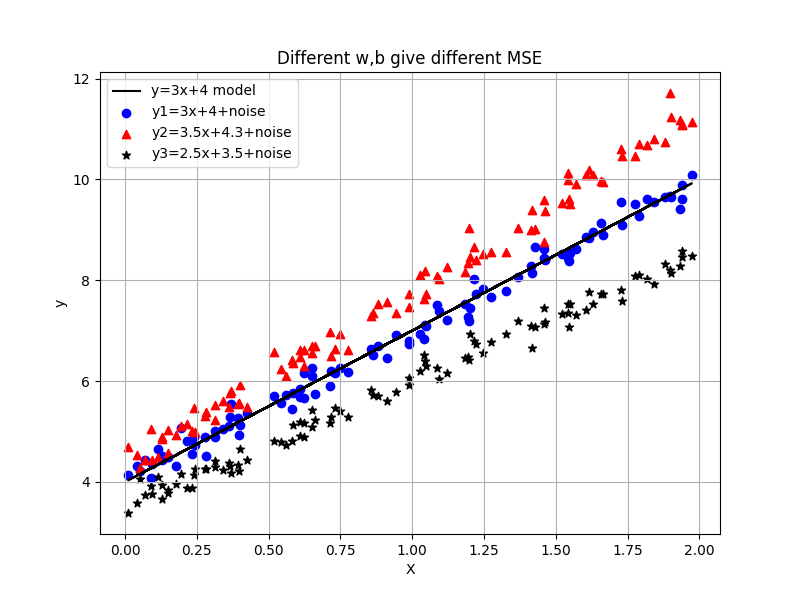
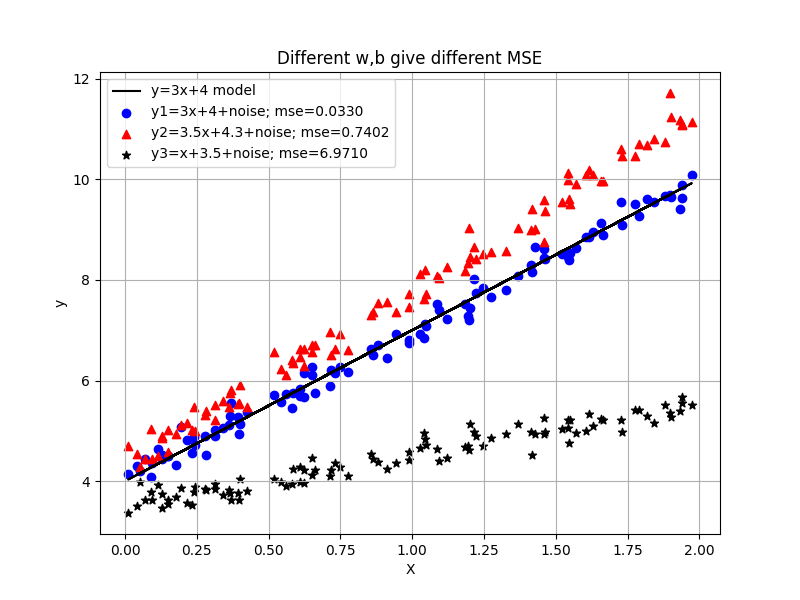
better understand iterations and dw,db adjustment

diff --git a/src/mse_iterations.py b/src/mse_iterations.py
@@ -1,0 +1,63 @@
+import numpy as np
+
+# Generate some random data
+np.random.seed(42)
+X = 2 * np.random.rand(100, 1)
+y = 4 + 3 * X + np.random.randn(100, 1)
+
+# Define the learning rate and number of iterations
+learning_rate = 0.15
+iterations = 100
+
+# Initialize weights and biases
+w1, b1 = np.random.randn(), np.random.randn()
+w2, b2 = np.random.randn(), np.random.randn()
+w3, b3 = np.random.randn(), np.random.randn()
+
+# Store the MSE values for each iteration
+mse_y1_values, mse_y2_values, mse_y3_values = [], [], []
+
+# Gradient descent optimization
+for i in range(iterations):
+    # Compute predictions
+    y1_pred = w1 * X + b1
+    y2_pred = w2 * X + b2
+    y3_pred = w3 * X + b3
+    
+    # Compute the MSE for each dataset
+    mse_y1 = np.mean((y - y1_pred) ** 2)
+    mse_y2 = np.mean((y - y2_pred) ** 2)
+    mse_y3 = np.mean((y - y3_pred) ** 2)
+    
+    # Store the MSE values
+    mse_y1_values.append(mse_y1)
+    mse_y2_values.append(mse_y2)
+    mse_y3_values.append(mse_y3)
+    
+    # Compute the gradients
+    gradient_w1 = (2 / len(X)) * np.dot(X.T, (y1_pred - y))
+    gradient_b1 = (2 / len(X)) * np.sum(y1_pred - y)
+    
+    gradient_w2 = (2 / len(X)) * np.dot(X.T, (y2_pred - y))
+    gradient_b2 = (2 / len(X)) * np.sum(y2_pred - y)
+    
+    gradient_w3 = (2 / len(X)) * np.dot(X.T, (y3_pred - y))
+    gradient_b3 = (2 / len(X)) * np.sum(y3_pred - y)
+    
+    # Update weights and biases
+    w1 -= learning_rate * gradient_w1
+    b1 -= learning_rate * gradient_b1
+    
+    w2 -= learning_rate * gradient_w2
+    b2 -= learning_rate * gradient_b2
+    
+    w3 -= learning_rate * gradient_w3
+    b3 -= learning_rate * gradient_b3
+
+# Print the MSE values for each iteration
+for i in range(iterations):
+    print(f"Iteration {i+1}: MSE of y1 = {mse_y1_values[i]:.4f}, MSE of y2 = {mse_y2_values[i]:.4f}, MSE of y3 = {mse_y3_values[i]:.4f}")
+
+print(f'[{w1},{b1}]')
+print(f'[{w2},{b2}]')
+print(f'[{w3},{b3}]')

diff --git a/src/gradient2.py b/src/gradient2.py
@@ -1,0 +1,56 @@
+import torch
+import torch.nn as nn
+import torch.optim as optim
+
+# Define the neural network
+class ThreeLayerNN(nn.Module):
+    def __init__(self, input_size, hidden_size, output_size):
+        super(ThreeLayerNN, self).__init__()
+        self.hidden = nn.Linear(input_size, hidden_size)
+        self.relu = nn.ReLU()
+        self.output = nn.Linear(hidden_size, output_size)
+    
+    def forward(self, x):
+        x = self.hidden(x)
+        x = self.relu(x)
+        x = self.output(x)
+        return x
+
+# Set random seed for reproducibility
+torch.manual_seed(42)
+
+# Define input, hidden, and output sizes
+input_size = 2
+hidden_size = 3
+output_size = 1
+
+# Create the model
+model = ThreeLayerNN(input_size, hidden_size, output_size)
+
+# Define the loss function and optimizer
+criterion = nn.MSELoss()
+optimizer = optim.SGD(model.parameters(), lr=0.1)
+
+# Define the input data and target output XOR logical
+X = torch.tensor([[0, 0], [0, 1], [1, 0], [1, 1]], dtype=torch.float32)
+y = torch.tensor([[0], [1], [1], [0]], dtype=torch.float32)
+
+# Training the neural network
+for epoch in range(800):
+    # Forward pass
+    outputs = model(X)
+    loss = criterion(outputs, y)
+    
+    # Backward pass and optimization
+    optimizer.zero_grad()
+    loss.backward()
+    optimizer.step()
+
+    if (epoch+1) % 100 == 0:
+        print(f'Epoch [{epoch+1}/1000], Loss: {loss.item():.4f}')
+
+# Print final outputs
+with torch.no_grad():
+    outputs = model(X)
+    print("\nFinal outputs after training:")
+    print(outputs)

diff --git a/src/updateWeight.py b/src/updateWeight.py
@@ -1,0 +1,47 @@
+import numpy as np
+import matplotlib.pyplot as plt
+
+# Create an array of 50 values for x ranging from 0 to 10
+np.random.seed(42)
+x = np.linspace(0, 10, 50)
+# Target output
+noise = np.random.randn(50)*0.2
+y = 2 * x - 1 + noise # Assuming a linear relationship y = 2x + 1 with some noise
+
+# Initialize weights and bias
+w = np.random.randn()
+b = np.random.randn()
+
+# Learning rate
+lr = 0.01 # Learning Rate
+
+# Number of epochs
+epochs = 1000
+
+# Training loop
+for _ in range(epochs):
+    # Forward pass forward propagation
+    z = w * x + b
+    # Calculate MSE loss
+    loss = np.mean((z - y)**2)
+    print(f"MSE: {loss}")
+    # Backward pass backpropagation
+    # Compute gradients
+    dL_dw = 2 * np.mean(x * (z - y))
+    dL_db = 2 * np.mean(z - y)
+
+    # Update weights and bias
+    w -= lr * dL_dw
+    b -= lr * dL_db
+
+print("Final weights:", w)
+print("Final bias:", b)
+
+# Plot input-output pairs and regression line
+plt.scatter(x, y, color='blue', label='Data points')
+plt.plot(x, w*x + b, color='red', label='Regression line')
+plt.xlabel('x')
+plt.ylabel('y')
+plt.legend()
+plt.title('Linear Regression with Gradient Descent')
+plt.show()

diff --git a/src/mse2.py b/src/mse2.py
@@ -7,15 +7,20 @@ X = 2 * np.random.rand(100, 1)
 y = 4 + 3*X
 y1 = 4 + 3 * X + np.random.randn(100, 1)*0.2
 y2 = 4.3 + 3.5 * X + np.random.randn(100, 1)*0.2
-y3 = 3.5 + 2.5 * X + np.random.randn(100, 1)*0.2
+y3 = 3.5 + 1 * X + np.random.randn(100, 1)*0.2
+
+# Calculate the Mean Squared Error for y1, y2, and y3
+mse_y1 = np.mean((y - y1) ** 2)
+mse_y2 = np.mean((y - y2) ** 2)
+mse_y3 = np.mean((y - y3) ** 2)
 
 # Plot the data
 plt.figure(figsize=(8, 6))
 # plt.plot(X, y, c='blue', marker='o', label='Data points')
 plt.plot(X, y, 'k-', label='y=3x+4 model')
-plt.scatter(X, y1, c='blue', marker='o', label='y1=3x+4+noise')
-plt.scatter(X, y2, c='red', marker='^', label='y2=3.5x+4.3+noise')
-plt.scatter(X, y3, c='black', marker='*', label='y3=2.5x+3.5+noise')
+plt.scatter(X, y1, c='blue', marker='o', label=f'y1=3x+4+noise; mse={mse_y1:.4f}')
+plt.scatter(X, y2, c='red', marker='^', label=f'y2=3.5x+4.3+noise; mse={mse_y2:.4f}')
+plt.scatter(X, y3, c='black', marker='*', label=f'y3=x+3.5+noise; mse={mse_y3:.4f}')
 plt.xlabel('X')
 plt.ylabel('y')
 plt.title('Different w,b give different MSE')

diff --git a/src/gradient1.py b/src/gradient1.py
@@ -38,7 +38,8 @@ for i in range(epoch):
     # Update weights and biases
     W -= learning_rate * W_grad
     b -= learning_rate * b_grad
-    # print(f"{i}: w={W}\n{b}")
+    # print(f"{i}: w={W}\n{b}") # demo w,b changes when epoch<20
+
 # Print final weights, biases, and outputs
 print("Final weights:", W)
 print("Final biases:", b)

diff --git a/doc/mse.md b/doc/mse.md
@@ -94,7 +94,7 @@ Again, using the chain rule and matrix differentiation properties:
 Here, \( \mathbf{1} \) is a vector of ones, to account for the sum of the residuals across all data points.
 
 ### Summary
-The partial derivatives of the Mean Squared Error (MSE) with respect to the weights \( \mathbf{w_t} \) and bias \( \mathbf{b_t} \) are:
+The partial derivatives of the Mean Squared Error (MSE) with respect to the weights \( \mathbf{w_t} \) and bias \( \mathbf{b_t} \) for different iterations are:
 
 \[ \frac{\partial \text{MSE}}{\partial \mathbf{w_t}} = \frac{2}{n} \mathbf{X}^T (\mathbf{X} \mathbf{w_t} + \mathbf{b_t} - \mathbf{y}) \]
 
@@ -102,3 +102,9 @@ The partial derivatives of the Mean Squared Error (MSE) with respect to the weig
 
 * [Use matrix to optimize MSE](../src/mse1.py)
 * [adjust w and b at same iterate](../src/gradient1.py)
+* [adjust w and b by loss function and optimizer](../src/gradient2.py)
+* [Understand dMSE_dw, and dMSE_db](../src/mse2.py)
+![](images/scatter4Line.png)
+
+To print out the MSE for each dataset based on different iterations, we can simulate an optimization process where we iteratively update the weights and bias to minimize the MSE.
+[](../src/mse_iterations.py)
